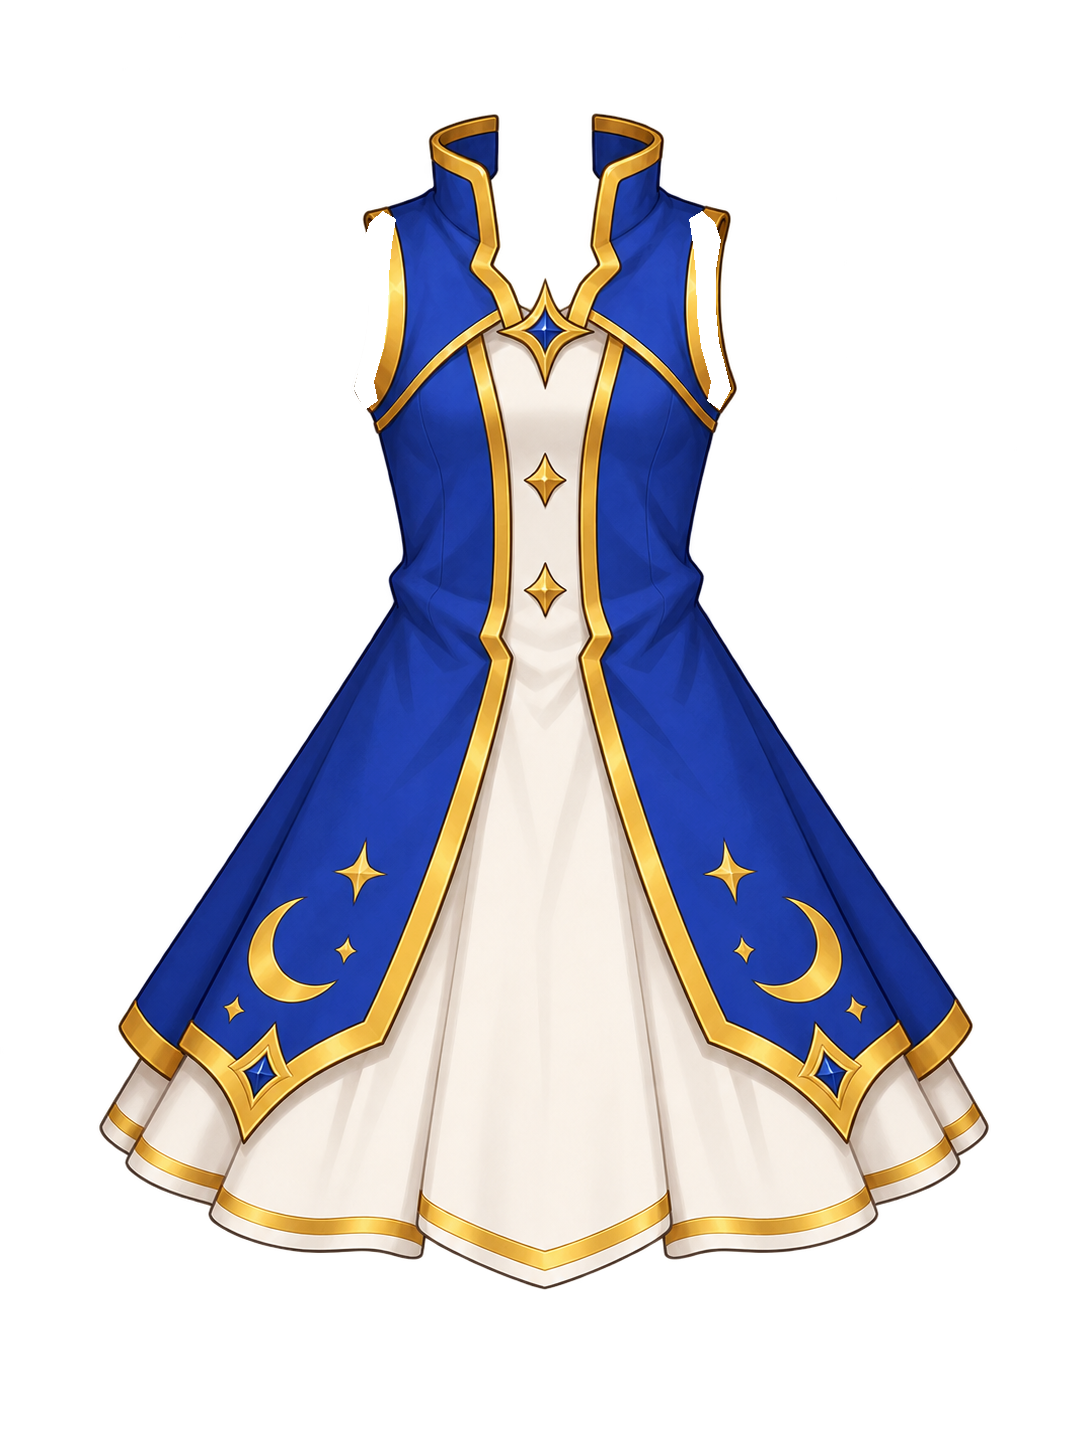
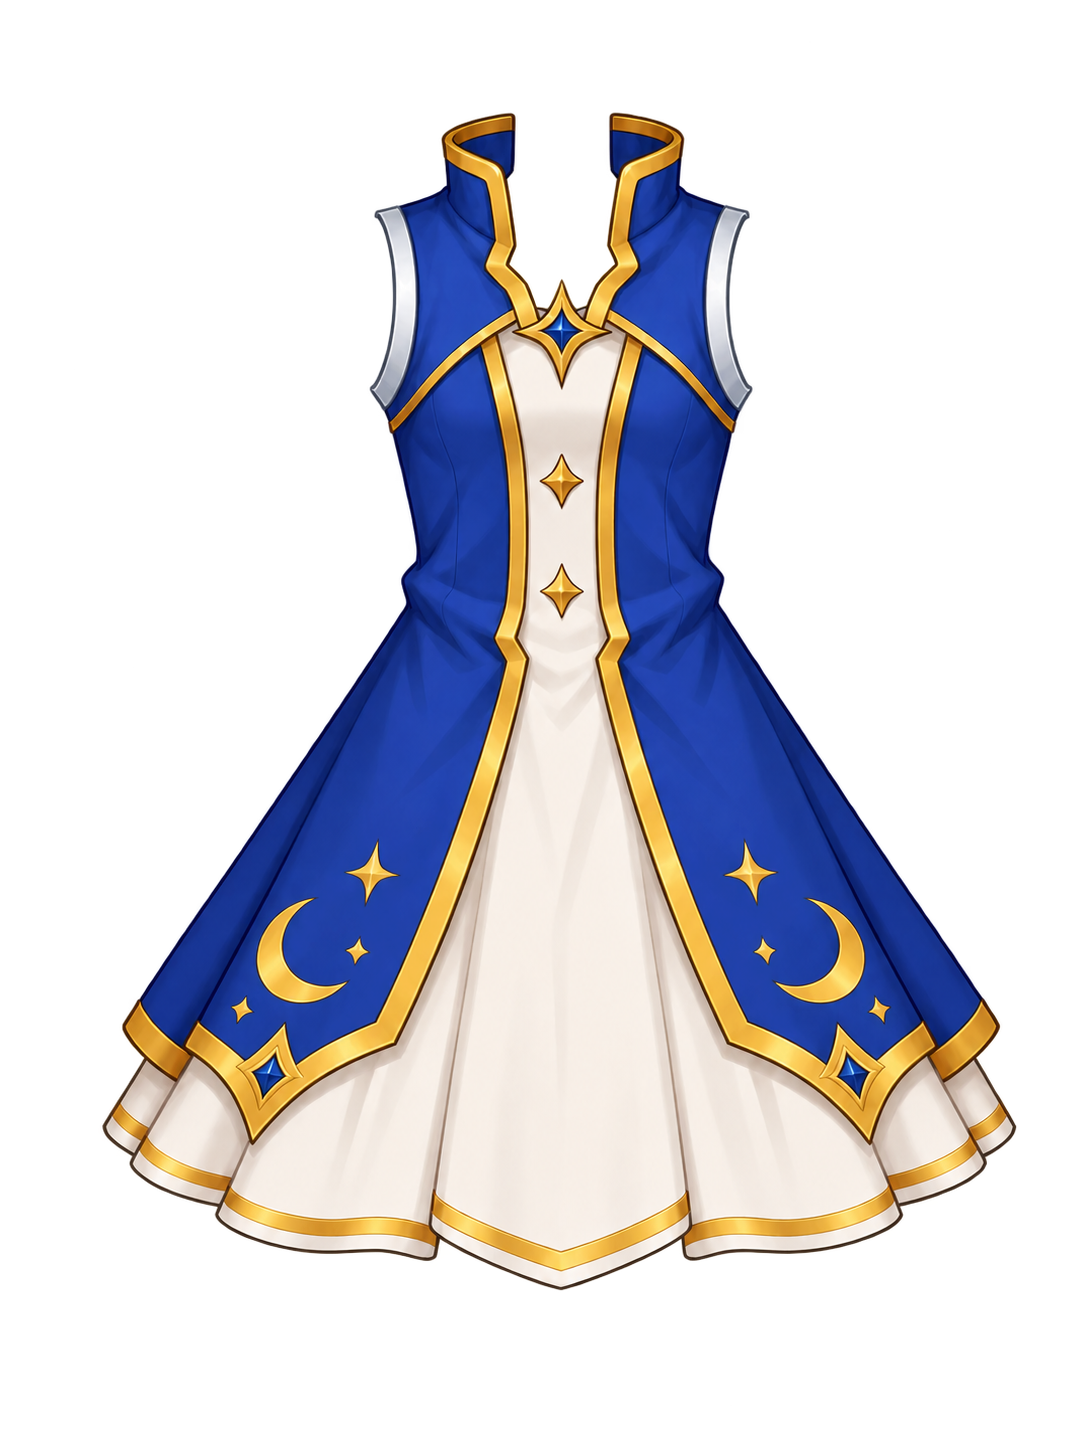
Replace dress assets with corrected armholes

Changed region(s): [[0.0912, 0.0622, 0.942, 0.9012]]

diff --git a/frontend/src/avatar/assetRegistry.ts b/frontend/src/avatar/assetRegistry.ts
@@ -18,7 +18,7 @@ export type CharacterSpriteDefinition = {
   hairPart?: "ponytail";
   tuckPonytail?: boolean;
   fullOutfit?: boolean;
-  coversShoulderCaps?: boolean;
+  neutralDetails?: boolean;
   tint?: "skin" | "hair" | "eyes";
 };
 
@@ -41,7 +41,7 @@ export type ResolvedCharacterSprite = {
   hairPart?: "ponytail";
   tuckPonytail?: boolean;
   fullOutfit?: boolean;
-  coversShoulderCaps?: boolean;
+  neutralDetails?: boolean;
   tint?: "skin" | "hair" | "eyes";
 };
 
@@ -160,7 +160,7 @@ const VERDANT_WISPS_AURA = require("../../assets/avatar/v2/auras/verdant-wisps.p
 const ARCANE_CONSTELLATION_AURA = require("../../assets/avatar/v2/auras/arcane-constellation.png");
 
 const GUILD_TUNIC_SPRITES = [
-  { ...sprite("vest", "upperBody", GUILD_TUNIC), coversShoulderCaps: true },
+  sprite("vest", "upperBody", GUILD_TUNIC),
   sprite("belt", "belt", GUILD_BELT),
 ] satisfies CharacterSpriteSet;
 
@@ -176,7 +176,6 @@ const GUILD_BOOTS_SPRITES = [
 ] satisfies CharacterSpriteSet;
 
 type ArtworkBounds = readonly [number, number, number, number];
-
 function artworkCrop(bounds: ArtworkBounds): ImageCrop {
   const [left, top, right, bottom] = bounds;
   return {
@@ -601,25 +600,25 @@ const COSMETIC_ASSETS: Record<string, CosmeticAssetDefinition> = {
     sprites: GUILD_TUNIC_SPRITES,
   },
   "avatar-v2/dresses/starlight": dressAsset(
-    require("../../assets/avatar/v2/dresses/starlight.png"), [96, 114, 990, 1291], 218, 614),
+    require("../../assets/avatar/v2/dresses/starlight.png"), [96, 114, 1016, 1291], 218, 614),
   "avatar-v2/dresses/forest-ranger": dressAsset(
     require("../../assets/avatar/v2/dresses/forest-ranger.png"), [57, 100, 1027, 1348], 209, 646),
   "avatar-v2/dresses/frostbound": dressAsset(
-    require("../../assets/avatar/v2/dresses/frostbound.png"), [49, 101, 1039, 1348], 219, 605),
+    require("../../assets/avatar/v2/dresses/frostbound.png"), [49, 101, 1059, 1348], 219, 605),
   "avatar-v2/dresses/teal-wayfarer": dressAsset(
-    require("../../assets/avatar/v2/dresses/teal-wayfarer.png"), [76, 83, 1010, 1302], 193, 562),
+    require("../../assets/avatar/v2/dresses/teal-wayfarer.png"), [76, 83, 1031, 1302], 193, 562),
   "avatar-v2/dresses/crimson-guard": dressAsset(
     require("../../assets/avatar/v2/dresses/crimson-guard.png"), [42, 68, 1044, 1385], 177, 617),
   "avatar-v2/dresses/royal-vanguard": dressAsset(
-    require("../../assets/avatar/v2/dresses/royal-vanguard.png"), [70, 80, 1016, 1312], 203, 601),
+    require("../../assets/avatar/v2/dresses/royal-vanguard.png"), [70, 80, 1038, 1343], 203, 601),
   "avatar-v2/dresses/royal-bard": dressAsset(
     require("../../assets/avatar/v2/dresses/royal-bard.png"), [46, 100, 1042, 1292], 207, 612),
   "avatar-v2/dresses/harbor-scout": dressAsset(
     require("../../assets/avatar/v2/dresses/harbor-scout.png"), [39, 96, 1048, 1328], 205, 597),
   "avatar-v2/dresses/verdant-warden": dressAsset(
-    require("../../assets/avatar/v2/dresses/verdant-warden.png"), [65, 111, 1022, 1340], 220, 589),
+    require("../../assets/avatar/v2/dresses/verdant-warden.png"), [65, 111, 1022, 1345], 220, 589),
   "avatar-v2/dresses/celestial-acolyte": dressAsset(
-    require("../../assets/avatar/v2/dresses/celestial-acolyte.png"), [81, 93, 1005, 1321], 202, 560),
+    require("../../assets/avatar/v2/dresses/celestial-acolyte.png"), [81, 93, 1019, 1321], 202, 560),
   "avatar-v2/tops/midnight-vanguard": {
     slot: "upperBody",
     previewSource: require("../../assets/avatar/v2/tops/midnight-vanguard.png"),
@@ -768,7 +767,8 @@ function skinPair(
 ): BaseBodySpriteDefinition[] {
   return [
     { id: `${id}-0-skin`, source: sources[0], region, layer, frame, tint: "skin" },
-    { id: `${id}-3-details`, source: sources[1], region, layer: detailLayer, frame, clipPath: detailClipPath },
+    { id: `${id}-3-details`, source: sources[1], region, layer: detailLayer,
+      frame, clipPath: detailClipPath, neutralDetails: true },
   ];
 }
 
@@ -937,7 +937,7 @@ export function resolveSpriteSet(
     hairPart: definition.hairPart,
     tuckPonytail: definition.tuckPonytail,
     fullOutfit: definition.fullOutfit,
-    coversShoulderCaps: definition.coversShoulderCaps,
+    neutralDetails: definition.neutralDetails,
     tint: definition.tint,
     region: "region" in definition ? definition.region : undefined,
     covers,

diff --git a/frontend/assets/avatar/v2/dresses/REPLACEMENT_SPEC.md b/frontend/assets/avatar/v2/dresses/REPLACEMENT_SPEC.md
@@ -1,92 +1,30 @@
-# Dress Armhole Correction Plan
+# Dress Armhole Artwork Replacement Contract
 
-The current 1086×1448 flattened dress sprites already align acceptably at the
-neck, chest, waist, and skirt on both avatar bodies. The visible defect is the
-rear/internal rim painted around each armhole: because a dress renders above the
-arms, that rim also renders above the arm and makes the garment look pasted on.
+The current flattened dress sprites use one shared 1086×1448 RGBA image per
+dress. Their collar, bodice, and skirt source frames already map into the avatar
+canvas independently. Keep that stable pipeline.
 
-Keep one flattened sprite per dress. Do not create BOY/GIRL or front/back
-variants unless a specific dress fails the single-sprite proof described below.
+The corrected artwork at the existing production paths now removes the
+rear-armhole rims:
 
-## Required correction
+- `frontend/assets/avatar/v2/dresses/starlight.png`
+- `frontend/assets/avatar/v2/dresses/forest-ranger.png`
+- `frontend/assets/avatar/v2/dresses/frostbound.png`
+- `frontend/assets/avatar/v2/dresses/teal-wayfarer.png`
+- `frontend/assets/avatar/v2/dresses/crimson-guard.png`
+- `frontend/assets/avatar/v2/dresses/royal-vanguard.png`
+- `frontend/assets/avatar/v2/dresses/royal-bard.png`
+- `frontend/assets/avatar/v2/dresses/harbor-scout.png`
+- `frontend/assets/avatar/v2/dresses/verdant-warden.png`
+- `frontend/assets/avatar/v2/dresses/celestial-acolyte.png`
 
-For each dress, erase only the rear/internal armhole rim that should sit behind
-the character arm. Preserve the front-facing edge, shoulder straps, front trim,
-neckline, chest, waist, skirt, highlights, shadows, decorations, canvas size,
-and registration. The erased rear rim must become transparent; the arm itself
-then supplies the rear boundary of the opening.
+The replacements preserve the filenames and 1086×1448 RGBA canvas. Their
+rear/internal armhole rims are removed while the front trim remains. Validate
+future artwork through the exact collar/bodice/skirt runtime transforms on
+both BOY and GIRL before promotion.
 
-| Dress | Production source | Review-only candidate path |
-| --- | --- | --- |
-| Starlight | `frontend/assets/avatar/v2/dresses/starlight.png` | `frontend/artwork-candidates/avatar/v2/dresses/starlight-armhole-candidate.png` |
-| Forest Ranger | `frontend/assets/avatar/v2/dresses/forest-ranger.png` | `frontend/artwork-candidates/avatar/v2/dresses/forest-ranger-armhole-candidate.png` |
-| Frostbound | `frontend/assets/avatar/v2/dresses/frostbound.png` | `frontend/artwork-candidates/avatar/v2/dresses/frostbound-armhole-candidate.png` |
-| Teal Wayfarer | `frontend/assets/avatar/v2/dresses/teal-wayfarer.png` | `frontend/artwork-candidates/avatar/v2/dresses/teal-wayfarer-armhole-candidate.png` |
-| Crimson Guard | `frontend/assets/avatar/v2/dresses/crimson-guard.png` | `frontend/artwork-candidates/avatar/v2/dresses/crimson-guard-armhole-candidate.png` |
-| Royal Vanguard | `frontend/assets/avatar/v2/dresses/royal-vanguard.png` | `frontend/artwork-candidates/avatar/v2/dresses/royal-vanguard-armhole-candidate.png` |
-| Royal Bard | `frontend/assets/avatar/v2/dresses/royal-bard.png` | `frontend/artwork-candidates/avatar/v2/dresses/royal-bard-armhole-candidate.png` |
-| Harbor Scout | `frontend/assets/avatar/v2/dresses/harbor-scout.png` | `frontend/artwork-candidates/avatar/v2/dresses/harbor-scout-armhole-candidate.png` |
-| Verdant Warden | `frontend/assets/avatar/v2/dresses/verdant-warden.png` | `frontend/artwork-candidates/avatar/v2/dresses/verdant-warden-armhole-candidate.png` |
-| Celestial Acolyte | `frontend/assets/avatar/v2/dresses/celestial-acolyte.png` | `frontend/artwork-candidates/avatar/v2/dresses/celestial-acolyte-armhole-candidate.png` |
-
-All ten validated candidates were promoted to their existing production paths.
-The candidates remain outside the runtime asset tree as reproducible review
-artifacts; every production PNG is byte-identical to its corresponding candidate.
-
-## Forest Ranger proof of concept
-
-- Source: `frontend/assets/avatar/v2/dresses/forest-ranger.png`
-- Candidate: `frontend/artwork-candidates/avatar/v2/dresses/forest-ranger-armhole-candidate.png`
-- Canvas: 1086×1448 RGBA, unchanged
[2 lines of base64/hex data omitted]
-- Changed pixels: 5,367, all cleared to transparent within the two rear-rim
-  regions; pixels outside those regions are byte-identical to the source.
-
-The candidate passed local visual checks on BOY and GIRL: the neckline remains
-aligned, both arms complete the openings, front trim remains visible in front,
-and torso/skirt registration is unchanged. This is a GO for applying the same
-localized correction to the remaining nine dresses, one candidate at a time.
-
-## Completed candidate validation
-
-Every candidate is 1086×1448 RGBA. Each edit only clears pixels inside its two
-rear-armhole polygons; every pixel outside those polygons is byte-identical to
-the production source.
-
-| Dress | Source SHA-256 | Candidate SHA-256 | Pixels cleared |
-| --- | --- | --- | ---: |
[10 lines of base64/hex data omitted]
-
-BOY/GIRL comparison sheets are stored in
-`frontend/artwork-candidates/avatar/v2/dresses/comparisons/`. Frostbound and
-Harbor Scout use wider dress-specific correction polygons because their rear
-trim is wider; neither requires different rendering or split assets.
-
-## Validation and promotion
-
-For every candidate:
-
-1. Confirm 1086×1448 RGBA and byte-identical pixels outside the two armhole edit
-   regions.
-2. Preview the same sprite on BOY and GIRL with shoulder-cap suppression disabled
-   for that proof only.
-3. Check the neck, both arm openings, shoulder continuity, torso, waist, skirt,
-   hats, hair, bottoms, and boots.
-4. The promoted production PNG stays at its existing path. Corrected dresses no
-   longer opt into shoulder-cap suppression, allowing the arm to complete each
-   opening; the starter tunic retains its separate shoulder-coverage behavior.
-
-The renderer does not need a `clothingBack` layer, body-specific dress sprites,
-or a 40-file replacement set for any currently supported dress. A split layer is
-an exception only if a future candidate demonstrably cannot preserve a necessary
-front edge while removing its rear rim.
+No runtime armhole mask, body-specific dress rig, source-pixel clearing script,
+or global shoulder clip is part of this contract. `fullOutfit` remains the only
+dress-only body treatment: it hides the torso/neck behind the dress opening,
+hides ordinary bottoms, and limits bare legs below the skirt. Base bodies and
+ordinary tops do not opt into that behavior.
